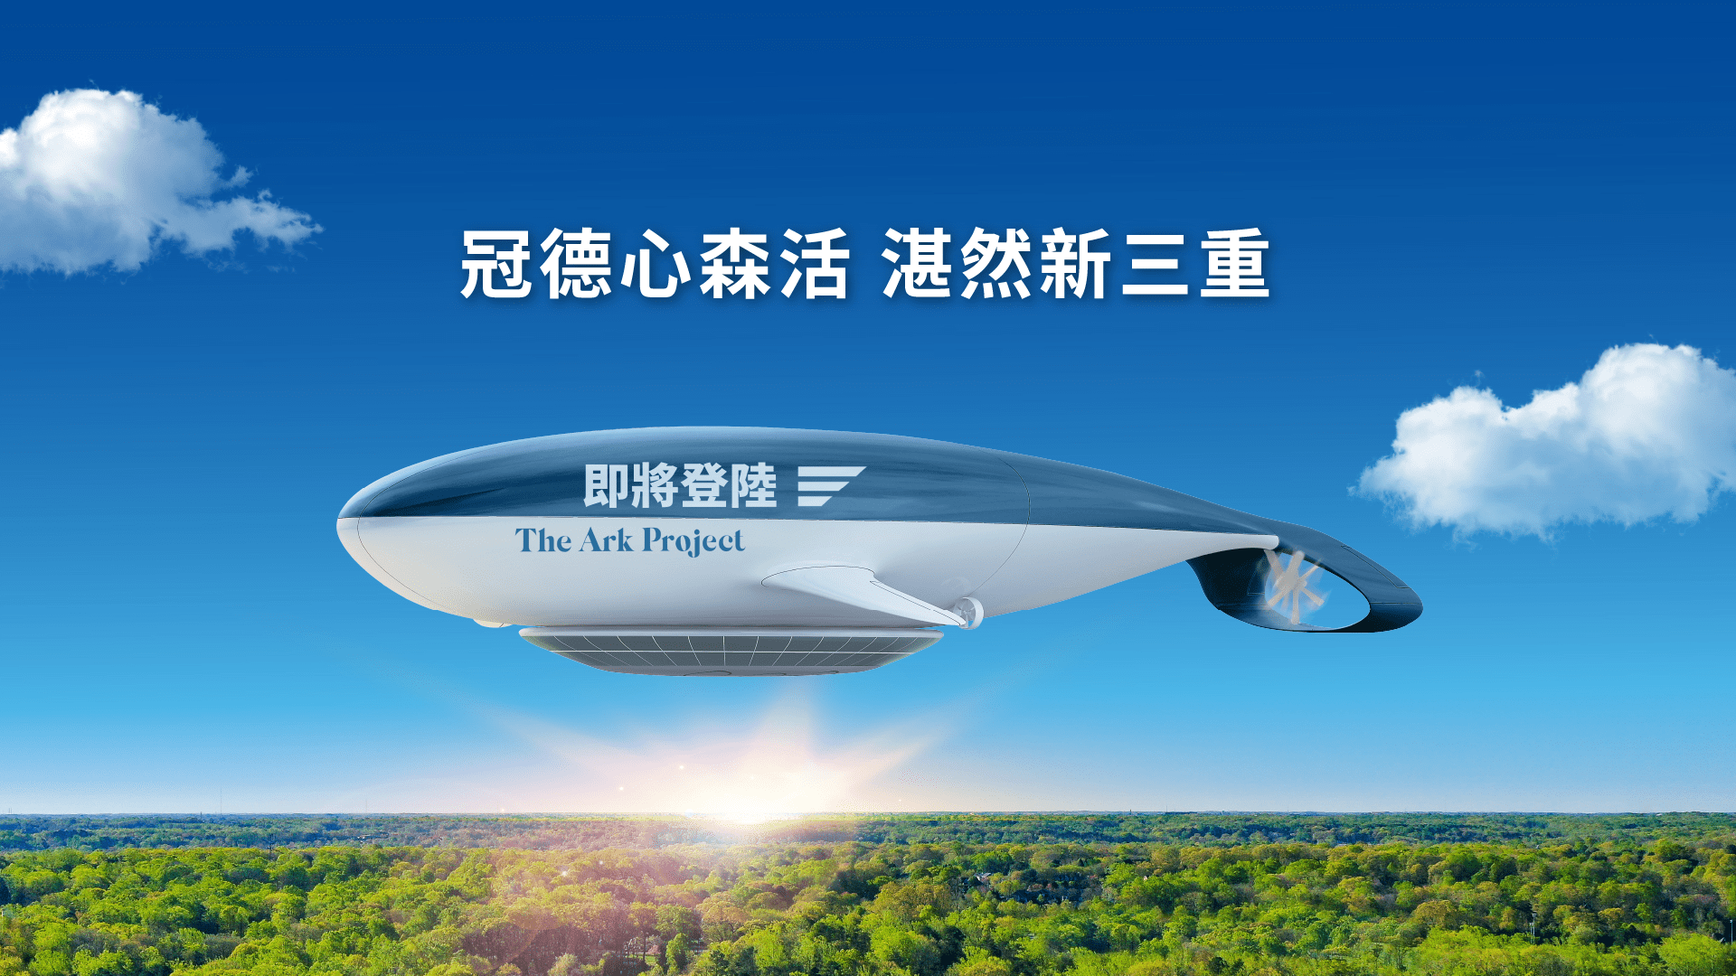
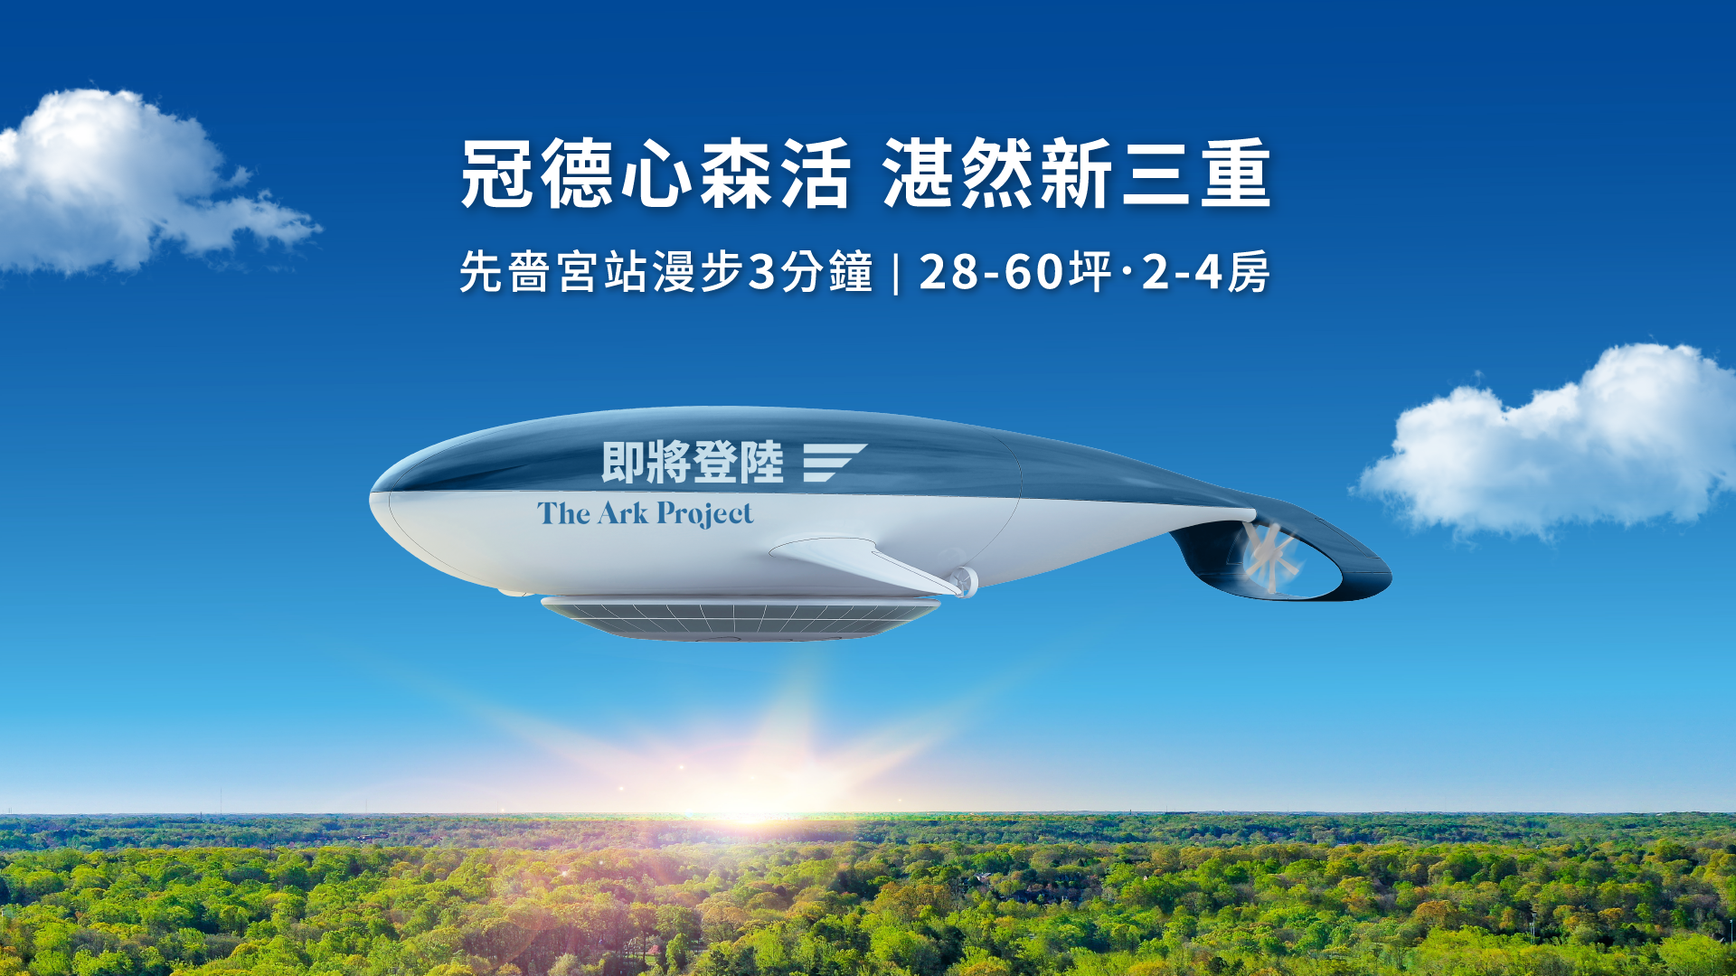
update rwd layout

Changed region(s): [[0.1875, 0.3972, 0.8438, 0.7028], [0.25, 0.1222, 0.75, 0.3056], [0.5, 0.825, 0.5312, 0.8556]]

diff --git a/src/Pages/Page5.js b/src/Pages/Page5.js
@@ -2,20 +2,44 @@ import React from 'react'
 
 function Page5() {
   return (
-    <div className='block w:full aspect:951/1300 aspect:1920/951@md bg:#054D97 rel py:8%'>
+    <div className='block w:full aspect:951/1300 aspect:1920/951@md bg:#20494C rel pt:8% pb:18% pb:8%@md h:100vh h:auto@md'>
       <div
-        className='inset:0 abs bg:left bg:left@md bg:no-repeat bg:cover  z:0  '
+        className='inset:0 abs bg:left bg:left@md bg:no-repeat bg:cover  z:0  hide block@md'
         style={{backgroundImage: `url(${process.env.PUBLIC_URL +'/images/page5_bg.png'})`}}
         data-aos="fade" data-aos-duration="1500"
       >
         <div className='w:1/2@md ml:auto  flex ai:center h:full'>
           <div className='py:8%@md flex flex:col jc:space-around ai:center h:full w:4/5 mx:auto'>
-            <img src={process.env.PUBLIC_URL+'/images/page5_title.png'} alt="" className='w:full'/>
+            {/* <img src={process.env.PUBLIC_URL+'/images/page5_title.png'} alt="" className='w:full'/> */}
+            <div className='f:30 f:heavy f:white border-left:9|#B9D1DC|solid  pt:9 pb:9 pl:7% lh:1.5'>台灣ESG永續建築先行者 - 冠德建設</div>
             <div className='font:18 lh:1.8 ls:1.5 f:white'>以ESG永續精神為核心，翻轉土地能量、創造城市新生。
             升級進化冠德4.0+，呼應大地的呼喚，為三重市心中下一座森林，
             深耕城市，生根自然，生命新生。</div>
             <img src={process.env.PUBLIC_URL+'/images/page5_p01.png'} alt="" className='w:full'/>
           </div>
+
+        </div>
+      </div>
+      <div className='hide@md flex flex:col jc:space-between h:full'>
+        <div className=''>
+          <div className='px:10% py:18%@md '>
+            <div className='w:4/5@md mx:auto'>
+              {/* <img src={process.env.PUBLIC_URL+'/images/page5_title.png'} alt="" className='max-w:full mb:16'/> */}
+              <div className='f:30 f:heavy f:white border-left:9|#B9D1DC|solid border-left:9|white|solid@md pt:9 pb:9 pl:7% mb:14 lh:1.5'>台灣ESG永續建築先行者</div>
+              <div className='pl:7%  font:18 lh:1.8 ls:1.5 f:white'>以ESG永續精神為核心，翻轉土地能量、創造城市新生。
+            升級進化冠德4.0+，呼應大地的呼喚，為三重市心中下一座森林，
+            深耕城市，生根自然，生命新生。</div>
+            </div>
+          </div>
+        </div>
+        <div  
+          className='w:full aspect:864/602 bg:center bg:no-repeat bg:cover'
+          style={{backgroundImage: `url(${process.env.PUBLIC_URL +'/images/page5_bg_mb.png'})`}
+        }>
+          <div className='w:1/2 ml:auto mr:3% flex ai:center h:full '>
+            <img src={process.env.PUBLIC_URL+'/images/page5_p01_mb.png'} alt="" className='max-w:full'/>
+          </div>
+          
 
         </div>
       </div>

diff --git a/src/Section2.js b/src/Section2.js
@@ -103,7 +103,7 @@ function Section2() {
       </Modal>  }
       <div className='w:11/12 mx:auto flex gap:50 flex-direction:column flex-direction:row@md' >
         <div className='w:full w:1/2@md' data-aos="fade-up" data-aos-duration="1500">
-          <div className='f:#20494C f:25 f:bold mt:25 hidden block@md'>先嗇宮站250米 28-60坪</div>
+          <div className='f:#20494C f:25 f:bold mt:25 hidden block@md'>先嗇宮站漫步3分鐘｜28-60坪．2-4房</div>
           <div className='h:2 bg:#20494C w:full my:25 hidden block@md'></div>
           <div className='flex ai:center gap-x:5 mb:25 mt:35 mt:0@md'>
             <div className='bg:#20494C r:50 p:8 mr:5'><FaFacebookF color='white' size='20' /></div>
@@ -115,7 +115,7 @@ function Section2() {
           </div>
           <div className='flex ai:center gap-x:5 mb:25'>
             <div className='bg:#20494C r:50 p:8 mr:5'><FaMapMarkerAlt  color='white' size='20' /></div>
-            <b className='f:#20494C f:22'>接待中心｜先嗇宮站250米</b>
+            <b className='f:#20494C f:22'>接待中心｜三重重新路五段家樂福斜對面</b>
           </div>
           <div className="mt:40">
 						<iframe width="100%" height="300" className="mb30" src="https://www.google.com/maps/embed?pb=!1m14!1m8!1m3!1d14458.564674461039!2d121.4714928!3d25.0462488!3m2!1i1024!2i768!4f13.1!3m3!1m2!1s0x0%3A0x5e628bbffe7dfd71!2z5YWI5ZeH5a6u!5e0!3m2!1szh-TW!2stw!4v1659426132137!5m2!1szh-TW!2stw" frameBorder="0" allowFullScreen=""></iframe>
@@ -164,13 +164,13 @@ function Section2() {
               <div className='flex ai:center jc:center  '>
 
                 <input type="checkbox"  className='px:5 mr:5' id="checkit" name="checkit" defaultChecked {...register("checkit", { required: true})}/>
-                <label htmlFor="checkit" className='f:white'>本人已悉知</label>
+                <label htmlFor="checkit" className='f:white'>我同意通過電話或郵件方式與我聯絡</label>
 								<div className='f:#ca0916 ml:10 t:underline text-underline-offset: cursor:pointer' onClick={()=>setIsOpen(true)}> 個人資料聲明事項 </div>
               </div>
             </div>
             <div className='flex w:3/4 mx:auto gap:10 my:15'>
-              <button className='bg:#032c6a px:8 py:12 r:5 f:bold w:full t:14 f:#fff' type='submit'>送出</button>
-              <button className='bg:#032c6a px:8 py:12 r:5 f:bold w:full t:14 f:#fff' type='reset'>取消</button>
+              <button className='bg:#20494C px:8 py:12 r:5 f:bold w:full t:14 f:#fff' type='submit'>送出</button>
+              <button className='bg:#20494C px:8 py:12 r:5 f:bold w:full t:14 f:#fff' type='reset'>清除</button>
             </div>
             <div>{error}  {mailSent}</div>            
           </form>

diff --git a/src/Pages/Page6.js b/src/Pages/Page6.js
@@ -2,23 +2,29 @@ import React from 'react'
 
 function Page6() {
   return (
-    <div className='flex ai:center py:8% gap:5 flex:col flex:row@md bg:#E7ECEF bg:white@md'>
+    <div className='flex ai:center jc:space-between pt:8% pb:18% pb:8%@md gap:5 flex:col flex:row@md bg:white bg:white@md h:100vh h:auto@md'>
       
       <div className='w:55%@md '>
-        <div className=' px:10%@md py:18%@md py:10% '>
+        <div className=' px:10%@md py:18%@md py:10%@md ' data-aos="fade" data-aos-duration="1500">
           <div className='w:4/5 mx:auto'>
-            <img src={process.env.PUBLIC_URL+'/images/page6_title.png'} alt="" className='max-w:full mb:16'/>
+            {/* <img src={process.env.PUBLIC_URL+'/images/page6_title.png'} alt="" className='max-w:full mb:16'/> */}
+            <div className='f:30 f:heavy f:#20494C border-left:9|#B9D1DC|solid  pt:9 pb:9 pl:7% mb:14'>甲級營造實力・誠信績優品牌</div>
             <div className='pl:7%  font:18 lh:1.8 ls:1.5 f:#1A1A1A'>「根基營造」承攬政府公路工程、企業總部、民間廠房、醫療大樓及住宅社區，經典業績如：台灣最美也最嚴峻的公路「台９線」工程、中央研究院、新竹光子園區、海基會等。</div>
+            <div className='hide block@md'>
+              <img src={process.env.PUBLIC_URL+'/images/page6_logo.png'} alt="" className='max-w:3/5 mx:auto mt:8% '/>
+            </div>
+            
 
-            <img src={process.env.PUBLIC_URL+'/images/page6_logo.png'} alt="" className='max-w:3/5 mx:auto mt:8%'/>
-
-          </div>
+          </div> 
 
 
         </div>
       </div>
-      <div className='flex flex:col w:45%@md gap:5'>
+      <div className='w:45%@md hide block@md' data-aos="fade-up" data-aos-duration="1500">
         <img src={process.env.PUBLIC_URL+'/images/page6_p01.png'} alt="" className='w:full'/>
+      </div>
+      <div className='hide@md'>
+        <img src={process.env.PUBLIC_URL+'/images/page6_p01_mb.png'} alt="" className='w:full'/>
       </div>
 
 

diff --git a/src/Section1.js b/src/Section1.js
@@ -3,10 +3,10 @@ import React,{useState} from 'react'
 function Section1() {
   const [isDisplay, setIsDisplay] = useState(true);
   return (
-    <div className=' bg:#054D97 rel overflow:hidden h:auto h:100vh@md'>
+    <div className=' bg:#054D97 rel overflow:hidden aspect:747/1200 aspect:1920/1044@md'>
 
       {isDisplay ?
-          <div className='bg:#00000080 w:full h:600px min-h:70vh@sm abs top:0 z:2 flex ai:end jc:center hidden@md' onClick={()=>setIsDisplay(!isDisplay)}>
+          <div className='bg:#00000080 w:full h:full min-h:70vh@sm abs top:0 z:2 flex ai:end jc:center hidden@md' onClick={()=>setIsDisplay(!isDisplay)}>
             <div className="bottom:0 w:4/5 w:3/5@sm ai:center pb:30">
               <img src={process.env.PUBLIC_URL+'/images/section1_icon1.png'} alt="" className='w:full'/>
 
@@ -15,9 +15,9 @@ function Section1() {
             </div>
           </div> : ''
         }
-      <div className='min-h:50vh min-h:70vh@sm w:full rel  z:0  hidden@md overflow-x:scroll'> 
+      <div className='aspect:747/1200  w:full rel  z:0  hidden@md overflow-x:scroll'> 
 
-        <div className='w:150% w:117%@sm h:600px min-h:70vh@sm overflow-x:hidden overflow-y:hidden bg:bottom bg:cover bg:no-repeat transition:width'
+        <div className='w:300vw  h:full min-h:70vh@sm overflow-x:hidden overflow-y:hidden bg:bottom bg:cover bg:no-repeat transition:width'
           style={{backgroundImage: `url(${process.env.PUBLIC_URL +'/images/section1_map_mb.png'})`}}
         >
         </div>
@@ -25,7 +25,7 @@ function Section1() {
         
       </div>
       <div
-        className='inset:0 abs  bg:center bg:no-repeat bg:cover bg:scroll@md z:0  hidden block@md'
+        className='inset:0 h:full abs  bg:center bg:no-repeat bg:cover bg:scroll@md z:0  hidden block@md'
         style={{backgroundImage: `url(${process.env.PUBLIC_URL +'/images/section1_map.png'})`}}
         data-aos="fade" data-aos-duration="1500"
       >

diff --git a/src/Pages/Page3.js b/src/Pages/Page3.js
@@ -2,14 +2,18 @@ import React from 'react'
 
 function Page3() {
   return (
-    <div className='flex ai:center py:8% gap:5 flex:col flex:row@md bg:#E7ECEF bg:white@md'>
-      <div className='flex flex:col w:45%@md gap:5 o:last  o:first@md '>
+    <div className='flex jc:space-between ai:center pt:8% pb:18%  pb:8%@md gap:5 flex:col flex:row@md bg:white bg:white@md h:100vh h:auto@md'>
+      <div className='w:45%@md o:last o:first@md hide block@md' data-aos="fade-up" data-aos-duration="1500">
         <img src={process.env.PUBLIC_URL+'/images/page3_p01.png'} alt="" className='w:full'/>
       </div>
+      <div className='o:last  o:first@md hide@md'>
+        <img src={process.env.PUBLIC_URL+'/images/page3_p01_mb.png'} alt="" className='w:full'/>
+      </div>
       <div className='w:55%@md o:first o:last@md'>
-        <div className='bg:#E7ECEF px:10%@md py:18%@md py:10% px:10% '>
+        <div className='bg:#E7ECEF@md px:10%@md py:18%@md py:10%@md px:10% ' data-aos="fade" data-aos-duration="1500">
           <div className='w:full w:3/5@md mx:auto'>
-            <img src={process.env.PUBLIC_URL+'/images/page3_title.png'} alt="" className='max-w:full mb:16'/>
+            {/* <img src={process.env.PUBLIC_URL+'/images/page3_title.png'} alt="" className='max-w:full mb:16'/> */}
+            <div className='f:30 f:heavy f:#20494C border-left:9|#B9D1DC|solid border-left:9|white|solid@md pt:9 pb:9 pl:7% mb:14'>重新大道 繁華盛景</div>
             <div className='pl:12%  font:18 lh:1.8 ls:1.5 f:#1A1A1A'>走過重新路，見證三重黃金年代。湯城產業園區、家樂福商圈、新北科技園區，一路銜接右岸老三重，咫尺即達新莊副都心，領御雙北黃金生活圈，日常機能一應俱全。</div>
           </div>
 

diff --git a/src/Pages/Page1.js b/src/Pages/Page1.js
@@ -2,15 +2,16 @@ import React from 'react'
 
 function Page1() {
   return (
-    <div className='flex ai:center py:8% gap:5 flex:col flex:row@md bg:#E7ECEF bg:white@md  '>
-      <div className='flex flex:col w:45%@md gap:5 o:last o:first@md px:0% px:0@md'>
+    <div className='flex ai:center pt:8% pb:18% pb:8%@md gap:5 flex:col flex:row@md bg:white bg:white@md h:100vh h:auto@md jc:space-between '>
+      <div className='flex flex:col w:45%@md gap:5 o:last o:first@md px:10% px:0@md' data-aos="fade-up" data-aos-duration="1500">
         <img src={process.env.PUBLIC_URL+'/images/page1/page1_p01.png'} alt="" className='w:full '/>
         <img src={process.env.PUBLIC_URL+'/images/page1/page1_p02.png'} alt="" className='w:full '/>
       </div>
-      <div className='w:55%@md o:first o:last@md'>
-        <div className='bg:#E7ECEF px:10%@md py:18%@md py:10% '>
+      <div className='w:55%@md o:first o:last@md' data-aos="fade" data-aos-duration="1500">
+        <div className='bg:white bg:#E7ECEF@md px:10%@md py:18%@md py:10%@md '>
           <div className='w:3/4 mx:auto'>
-            <img src={process.env.PUBLIC_URL+'/images/page1/page1_title.png'} alt="" className='max-w:full'/>
+            {/* <img src={process.env.PUBLIC_URL+'/images/page1/page1_title.png'} alt="" className='max-w:full'/> */}
+            <div className='f:30 f:heavy f:#20494C border-left:9|#B9D1DC|solid border-left:9|white|solid@md pt:9 pb:9 pl:7% mb:14'>新北第二・市政都心</div>
             <div className='pl:10% font:18 lh:1.8 ls:1.5 f:#1A1A1A'>新北國際都心定錨三重・2026預見新湛然，匯聚綠景廣場、動能商圈、科技工業、雲端市政，打造複合型行政服務空間，喚醒三重地塊榮景。</div>
           </div>
 

diff --git a/src/Pages/Page2.js b/src/Pages/Page2.js
@@ -2,10 +2,12 @@ import React from 'react'
 
 function Page2() {
   return (
-    <div className='flex ai:center py:8% gap:5 flex:col flex:row@md bg:#E7ECEF bg:white@md'>
+    <div className='flex ai:center pt:8% pb:18% pb:8%@md gap:5 flex:col flex:row@md bg:#E7ECEF bg:white@md h:100vh h:auto@md jc:space-between'>
       <div className='w:55%@md'>
-        <div className='bg:#E7ECEF px:10%@md py:18%@md py:10% px:10%'>
-          <img src={process.env.PUBLIC_URL+'/images/page2_title.png'} alt="" className='w:4/5 w:1/2@md mb:16'/>
+        <div className='bg:#E7ECEF px:10%@md py:18%@md py:10%@md px:10%' data-aos="fade" data-aos-duration="1500">
+          {/* <img src={process.env.PUBLIC_URL+'/images/page2_title.png'} alt="" className='w:4/5 w:1/2@md mb:16'/> */}
+          <div className='f:30 f:bold f:#20494C ls:1.5 lh:1.4 mb:14'>三環六線軌道經濟<br />
+先嗇宮站漫步3分鐘</div>
           <div className=' font:18 lh:1.8 ls:1.5 f:#1A1A1A'>三重二重埔最美麗的豐年軸線，串接三環六線，<br />
 高效路網縱貫四方，一脈串接最便捷的當代效率與時代文明。</div>
           <div className='f:18 f:#1A1A1A border-left:10|solid|white pl:15 lh:1.8 mt:15'>
@@ -16,8 +18,11 @@ function Page2() {
           </div>
         </div>
       </div>
-      <div className='flex flex:col w:45%@md gap:5'>
+      <div className='w:45%@md gap:5 hide block@md' data-aos="fade-up" data-aos-duration="1500">
         <img src={process.env.PUBLIC_URL+'/images/page2_p01.png'} alt="" className='w:full'/>
+      </div>
+      <div className='hide@md'>
+        <img src={process.env.PUBLIC_URL+'/images/page2_p01_mb.png'} alt="" className='w:full'/>
       </div>
 
     </div>

diff --git a/src/Pages/Page4.js b/src/Pages/Page4.js
@@ -2,20 +2,24 @@ import React from 'react'
 
 function Page4() {
   return (
-    <div className='flex ai:center py:8% gap:5 flex:col flex:row@md bg:#E7ECEF bg:white@md'>
+    <div className='flex ai:center jc:space-between pt:8% pb:18%  pb:8%@md gap:5 flex:col flex:row@md bg:#E7ECEF bg:white@md h:100vh h:auto@md'>
       
       <div className='w:55%@md '>
-        <div className='bg:#E7ECEF px:10% py:18%@md py:10% '>
+        <div className='bg:#E7ECEF px:10% py:18%@md py:10%@md ' data-aos="fade" data-aos-duration="1500">
           <div className='w:4/5@md mx:auto'>
-            <img src={process.env.PUBLIC_URL+'/images/page4_title.png'} alt="" className='max-w:full mb:16'/>
+            {/* <img src={process.env.PUBLIC_URL+'/images/page4_title.png'} alt="" className='max-w:full mb:16'/> */}
+            <div className='f:30 f:heavy f:#20494C border-left:9|#B9D1DC|solid border-left:9|white|solid@md pt:9 pb:9 pl:7% mb:14 lh:1.5'>百年富饒文化・424公頃公園為鄰</div>
             <div className='pl:7%  font:18 lh:1.8 ls:1.5 f:#1A1A1A'>三級古蹟「先嗇宮」香火鼎盛，信仰與文化的能量深植人心； 雙北曼哈頓大都會公園，國際級綠地環抱。文化與自然於此生生不息。</div>
           </div>
 
 
         </div>
       </div>
-      <div className='flex flex:col w:45%@md gap:5'>
+      <div className='w:45%@md hide block@md' data-aos="fade-up" data-aos-duration="1500">
         <img src={process.env.PUBLIC_URL+'/images/page4_p01.png'} alt="" className='w:full'/>
+      </div>
+      <div className='hide@md'>
+        <img src={process.env.PUBLIC_URL+'/images/page4_p01_mb.png'} alt="" className='w:full'/>
       </div>
 
 

diff --git a/src/Pages/Page9.js b/src/Pages/Page9.js
@@ -2,14 +2,15 @@ import React from 'react'
 
 function Page9() {
   return (
-    <div className='flex ai:center py:8% gap:5 flex:col flex:row@md bg:#E7ECEF bg:white@md'>
-      <div className=' w:45%@md gap:5 o:last o:first@md'>
+    <div className='flex ai:center jc:space-between pt:8% pb:18% pb:8%@md  gap:5 flex:col flex:row@md bg:#E7ECEF bg:white@md h:100vh h:auto@md'>
+      <div className=' w:45%@md gap:5 o:last o:first@md px:10% px:0@md' data-aos="fade-up" data-aos-duration="1500">
         <img src={process.env.PUBLIC_URL+'/images/page9_p01.png'} alt="" className='w:full'/>
       </div>
-      <div className='w:55%@md o:first o:last@md'>
-        <div className='bg:#E7ECEF px:10%@md py:18%@md py:10% '>
+      <div className='w:55%@md o:first o:last@md' data-aos="fade" data-aos-duration="1500">
+        <div className='bg:#E7ECEF px:10%@md py:18%@md '>
           <div className='w:3/4 mx:auto'>
-            <img src={process.env.PUBLIC_URL+'/images/page9_title.png'} alt="" className='max-w:full'/>
+            {/* <img src={process.env.PUBLIC_URL+'/images/page9_title.png'} alt="" className='max-w:full'/> */}
+            <div className='f:30 f:heavy f:#20494C border-left:9|#B9D1DC|solid border-left:9|white|solid@md pt:9 pb:9 pl:7% mb:14 lh:1.5'>文化，最好的永續建設</div>
             <div className='pl:10% font:18 lh:1.8 ls:1.5 f:#1A1A1A'>2007起，冠德在每一個社區，都設置一座「冠德遠見圖書館」，並贈送與住戶相當數量的天下文化叢書。把知識，當作建築的標準配備，視為生活的基礎需求。期許以文化的力量，為下一代種下希望。</div>
           </div>
 

diff --git a/src/Pages/Page8.js b/src/Pages/Page8.js
@@ -2,17 +2,18 @@ import React from 'react'
 
 function Page8() {
   return (
-    <div className='block py:8% rel bg:#E7ECEF bg:white@md'>
-      <div className='flex jc:center jc:space-between@md ai:center mt:6% mb:16 w:5/6 mx:auto'>
+    <div className='flex flex:col jc:space-between block@md pt:8% pb:18% pb:8%@md rel bg:white bg:white@md h:100vh h:auto@md '>
+      <div className='flex jc:center jc:space-between@md ai:center mt:6%@md mb:16 w:5/6 mx:auto' data-aos="fade" data-aos-duration="1500">
 
-        <img src={process.env.PUBLIC_URL+'/images/page8_title.png'} alt="" className='w:4/5 w:2/5@md max-w:full '/>
+        {/* <img src={process.env.PUBLIC_URL+'/images/page8_title.png'} alt="" className='w:4/5 w:2/5@md max-w:full '/> */}
+        <div className='f:30 f:heavy f:#20494C border-left:9|#B9D1DC|solid  pt:9 pb:9 pl:7% pl:2%@md mb:14'>未來儀表板 智能綠建材</div>
         <div className="font:18 lh:1.8 ls:1.5 f:#1A1A1A hidden block@md">
           聯合國2030永續發展目標 17 SDGs <br />
           低碳營運｜循環永續｜綠色能源｜降低污染｜健康生活
         </div>
           
       </div>
-      <div className='hide flex@md w:full gap:5 p:1% mt:4% '>
+      <div className='hide flex@md w:full gap:5 p:1% mt:4% ' data-aos="fade-up" data-aos-duration="1500">
         <div><img src={process.env.PUBLIC_URL+'/images/page8_p01.png'} alt="" className='max-w:full'/></div>
         <div><img src={process.env.PUBLIC_URL+'/images/page8_p02.png'} alt="" className='max-w:full'/></div>
         <div><img src={process.env.PUBLIC_URL+'/images/page8_p03.png'} alt="" className='max-w:full'/></div>

diff --git a/src/Pages/Page7.js b/src/Pages/Page7.js
@@ -2,19 +2,20 @@ import React from 'react'
 
 function Page7() {
   return (
-    <div className='flex ai:center py:8% gap:5 rel flex:col flex:row@md bg:#E7ECEF bg:white@md'>
+    <div className='flex ai:center jc:space-between pt:8% pb:18% pb:8%@md gap:5 rel flex:col flex:row@md bg:#E7ECEF bg:white@md h:100vh h:auto@md'>
       
       <div className='w:58%@md rel z:0'>
-        <div className='bg:#E7ECEF px:0% py:18%@md py:10%'>
+        <div className='bg:#E7ECEF px:0% py:18%@md py:10%@md' data-aos="fade" data-aos-duration="1500">
           <div className='w:4/5 mx:auto'>
-            <img src={process.env.PUBLIC_URL+'/images/page7_title.png'} alt="" className='max-w:full mb:16'/>
+            {/* <img src={process.env.PUBLIC_URL+'/images/page7_title.png'} alt="" className='max-w:full mb:16'/> */}
+            <div className='f:30 f:heavy f:#20494C border-left:9|#B9D1DC|solid border-left:9|white|solid@md pt:9 pb:9 pl:7% mb:14 lh:1.5'>黃金級綠建築規劃</div>
             <div className='pl:10%  font:18 lh:1.8 ls:1.5 f:#1A1A1A'>遵由內政部建築研究所研擬「綠建築指標系統EEWH」七大指標，【冠德方舟計劃】全案以「黃金綠建築」等級規劃設計。</div>
           </div>
 
 
         </div>
       </div>
-      <div className='flex flex:col w:45%@md gap:5 abs@md z:1 right:0'>
+      <div className='flex flex:col w:45%@md gap:5 abs@md z:1 right:0' data-aos="fade-up" data-aos-duration="1500" data-aos-anchor-placement="top">
         <img src={process.env.PUBLIC_URL+'/images/page7_p01.png'} alt="" className='w:full'/>
       </div>
 

diff --git a/src/index.css b/src/index.css
@@ -1,7 +1,7 @@
 @import '@master/normal.css';
 @import '@master/keyframes.css';
-
-body{font-family: arial,"Microsoft JhengHei","微軟正黑體",sans-serif !important;}
+@import url(//fonts.googleapis.com/earlyaccess/notosanstc.css);
+body{font-family: 'Noto Sans TC', arial,"Microsoft JhengHei","微軟正黑體",sans-serif !important;}
 @keyframes oxxo{
   from{
       /* left:0; */
@@ -21,8 +21,8 @@ body{font-family: arial,"Microsoft JhengHei","微軟正黑體",sans-serif !impor
   color: white;
   background: #21494C;
 }
-.slick-dots{
-  bottom:1%; 
+.slick-dots{   
+  bottom:5%; 
 }
 .slick-list 
 {
@@ -31,15 +31,16 @@ body{font-family: arial,"Microsoft JhengHei","微軟正黑體",sans-serif !impor
 
 .slick-dots li button {
   /* box-shadow: 2px 2px 2px 1px rgba(0, 0, 0, 0.8); */
-  /* text-shadow: 1px 1px 5px black; */
-  border: 1px solid #20494C;
+  text-shadow: 1px 1px 0px black;
+    /* border: 1px solid #20494C;
     width: 10px;
     height: 10px;
-    border-radius: 50%;
+    border-radius: 50%; */
 }
+
 .slick-dots li button:before{
-  color:transparent !important;
-  margin: -3.1px;
+  /* color:black !important; */
+  /* margin: -3.1px; */
   /* border:1px #21494C solid !important; */
   /* text-shadow: -1px 0 black, 0 1px black, 1px 0 black, 0 -1px black !important; */
   /* border-radius: 50%; */
@@ -51,5 +52,5 @@ body{font-family: arial,"Microsoft JhengHei","微軟正黑體",sans-serif !impor
   
 }
 .slick-dots li.slick-active button:before {
-  color:#20494C !important;
+  color:black !important;
 }
